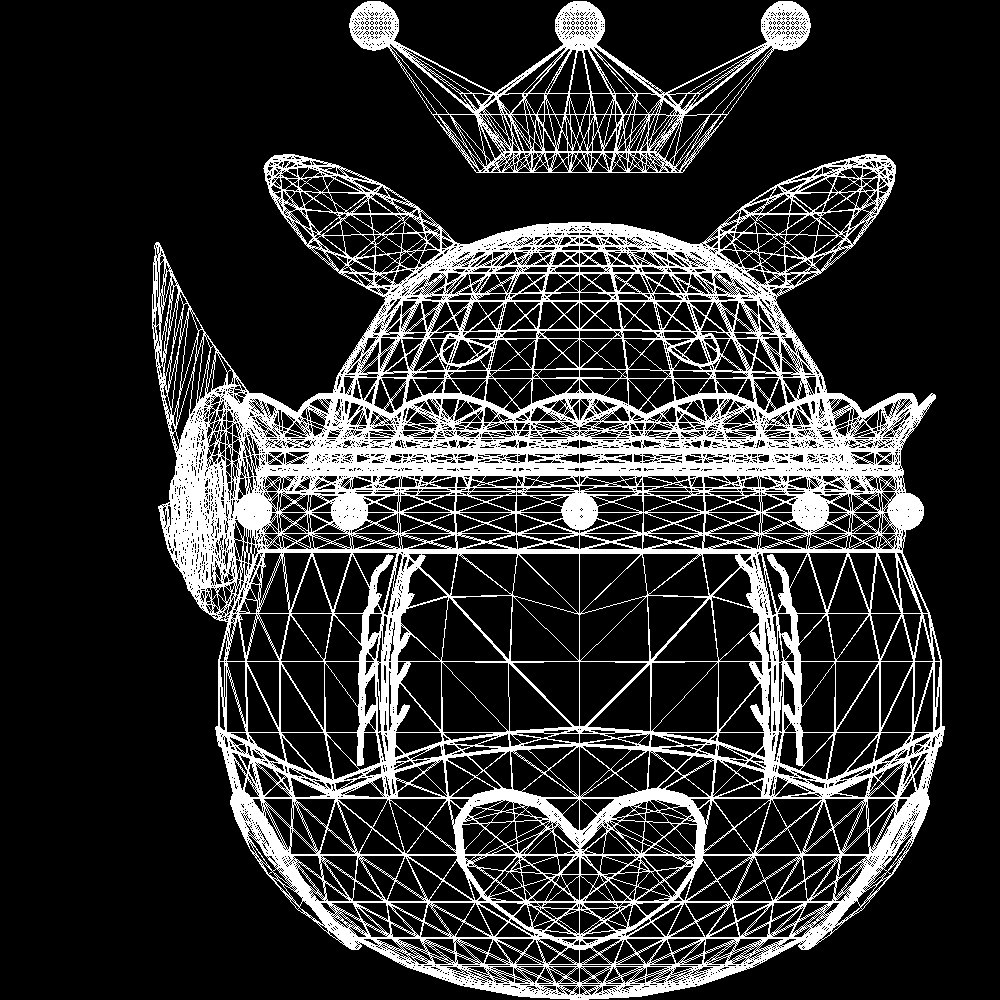
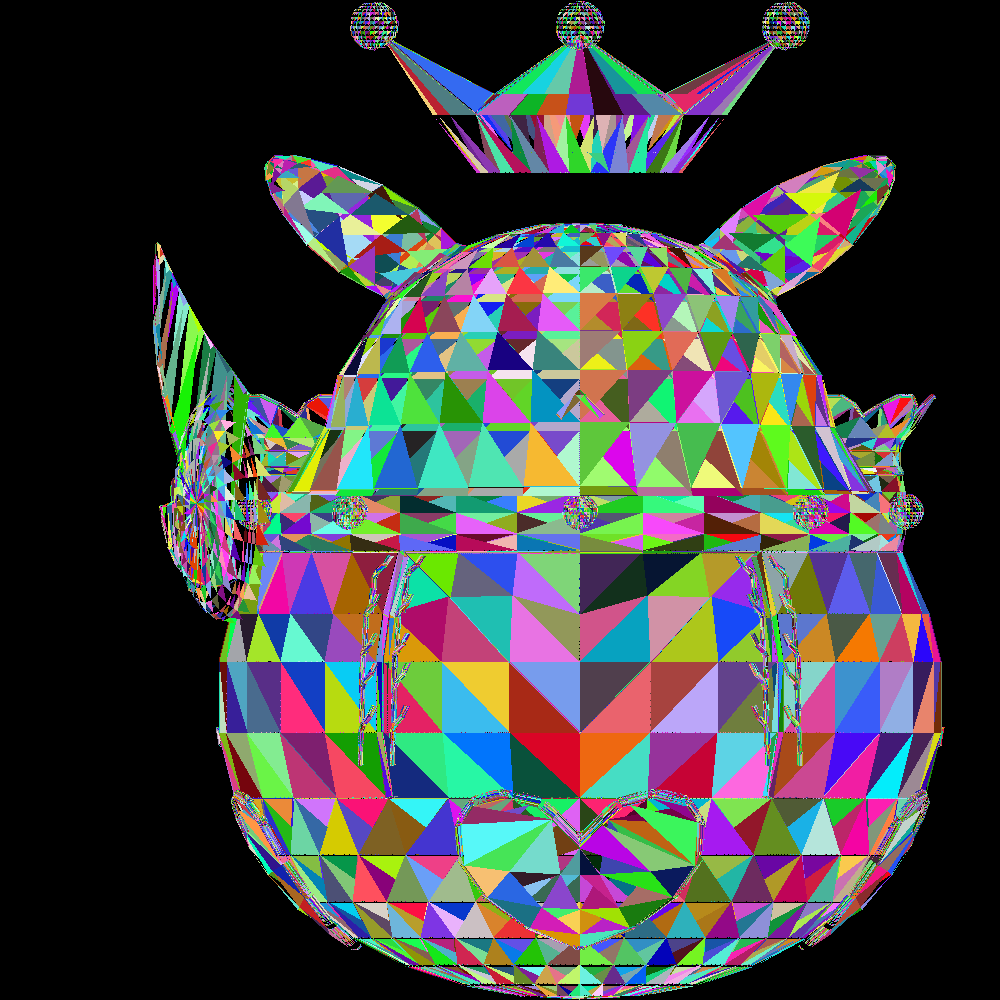
Good polygons

diff --git a/lab1.py b/lab1.py
@@ -41,7 +41,7 @@ def x_loop_line(image, x0, y0, x1, y1, color):
             image[y, x] = color
 
 
-def brezn_line(image, x0, y0, x1, y1,color):
+def brezn_line(image, x0, y0, x1, y1, color):
     xchange = False
     if (abs(x0 - x1) < abs(y0 - y1)):
         x0, y0 = y0, x0
@@ -79,7 +79,7 @@ def brezn_line(image, x0, y0, x1, y1,color):
 
 
 
-name = './/models//model_2.obj' #Название модели
+name = './/models//model_1.obj' #Название модели
 vertices = []
 wares = []
 f = open(name)
@@ -102,51 +102,75 @@ while line :
 
 f.close()
 
+width = 1000
+height = 1000
+
 image_matrix = np.zeros((1000, 1000, 3), dtype = np.uint8)
 image_matrix_wareframe = np.zeros((1000, 1000, 3), dtype = np.uint8)
 
-x_offset = 200 # Отступы, поменять если выдаёт ошибку
-y_offset = -200
+
+
+x_offset = 0.005 # Отступы, поменять если выдаёт ошибку
+y_offset = 0.005
+z_offset = 0
+alpha = 0
+betta = 2
+gamma = 0
 x_scale = 1000 # Масштаб, поменять если модель не видно
 y_scale = 1000
 
 def mapNorm(OldValue,OldMin,OldMax,NewMin,NewMax):
     OldRange = (OldMax - OldMin)
     NewRange = (NewMax - NewMin)
-    return int((((OldValue - OldMin) * NewRange) / OldRange) + NewMin)
+    return (((OldValue - OldMin) * NewRange) / OldRange) + NewMin
 
-OldMax = max(map(max,vertices))
-OldMin = min(map(min,vertices))
+OldMax = max(map(max,vertices)) + max(x_offset, y_offset)
+OldMin = min(map(min,vertices)) + max(x_offset, y_offset)
 
 
 
 
 
 for i in range(0,len(wares)):
-    x0 = int(vertices[wares[i][0]-1][0]*x_scale)
-    y0 = int(vertices[wares[i][0]-1][1]*y_scale)
-    x1 = int(vertices[wares[i][1]-1][0]*x_scale)
-    y1 = int(vertices[wares[i][1]-1][1]*y_scale)
-    x0 = mapNorm(x0, OldMin * x_scale, OldMax * x_scale, 0, 999) + x_offset
-    y0 = mapNorm(y0, OldMin * y_scale, OldMax * y_scale, 0, 999) + y_offset
-    x1 = mapNorm(x1, OldMin * x_scale, OldMax * x_scale, 0, 999) + x_offset
-    y1 = mapNorm(y1, OldMin * y_scale, OldMax * y_scale, 0, 999) + y_offset
+    x0 = int((vertices[wares[i][0]-1][0] + x_offset) * x_scale)
+    y0 = int((vertices[wares[i][0]-1][1] + y_offset) * y_scale)
+    x1 = int((vertices[wares[i][1]-1][0] + x_offset) * x_scale)
+    y1 = int((vertices[wares[i][1]-1][1] + y_offset) * y_scale)
+    x0 = int(mapNorm(x0, OldMin * x_scale, OldMax * x_scale, 0, 999))
+    y0 = int(mapNorm(y0, OldMin * y_scale, OldMax * y_scale, 0, 999))
+    x1 = int(mapNorm(x1, OldMin * x_scale, OldMax * x_scale, 0, 999))
+    y1 = int(mapNorm(y1, OldMin * y_scale, OldMax * y_scale, 0, 999))
 
     brezn_line(image_matrix_wareframe, x0, y0, x1, y1,255)
 
 img = Image.fromarray(np.flip(image_matrix_wareframe), mode = 'RGB')
 img.save(name + 'wareframe'+'.png')
 
+
 def BarCoord(x, y, x0, y0, x1, y1, x2, y2):
     denom = (x0 - x2) * (y1 - y2) - (x1 - x2) * (y0 - y2)
     if denom == 0:
-        return False
+        return -1, -1, -1
     lambda0 = ((x - x2) * (y1 - y2) - (x1 - x2) * (y - y2)) / denom
     lambda1 = ((x0 - x2) * (y - y2) - (x - x2) * (y0 - y2)) / denom
     lambda2 = 1.0 - lambda0 - lambda1
-    if (lambda0 >= 0 and lambda1 >= 0 and lambda2 >= 0):
-        return True
-    return False
+
+    return lambda0, lambda1, lambda2
+
+
+z_buffer = np.zeros((1000, 1000), dtype = np.float32)
+z_buffer[0:1000, 0:1000] = np.inf
+
+
+
+
+m1 = np.array([[1, 0, 0], [0, cos(alpha), sin(alpha)], [0, -sin(alpha), cos(alpha)]], dtype = np.float32)
+m2 = np.array([[cos(betta), 0, sin(betta)], [0, 1, 0], [-sin(betta), 0, cos(betta)]], dtype = np.float32)
+m3 = np.array([[cos(gamma), sin(gamma), 0], [-sin(gamma), cos(gamma), 0], [0, 0, 1]], dtype = np.float32)
+
+R = np.matmul(np.matmul(m1, m2), m3)
+
+
 
 
 
@@ -158,36 +182,83 @@ for i in range(0,int(len(wares)),3):
 
     x0 = vertices[wares[i][0]-1][0]
     y0 = vertices[wares[i][0]-1][1]
+    z0 = vertices[wares[i][0]-1][2]
     x1 = vertices[wares[i+1][0]-1][0]
     y1 = vertices[wares[i+1][0]-1][1]
+    z1 = vertices[wares[i+1][0]-1][2]
     x2 = vertices[wares[i+2][0]-1][0]
     y2 = vertices[wares[i+2][0]-1][1]
+    z2 = vertices[wares[i+2][0]-1][2]
 
-    x0 = mapNorm(x0, OldMin , OldMax , 0, 999)
-    y0 = mapNorm(y0, OldMin , OldMax , 0, 999)
-    x1 = mapNorm(x1, OldMin , OldMax , 0, 999)
-    y1 = mapNorm(y1, OldMin , OldMax , 0, 999)
-    x2 = mapNorm(x2, OldMin , OldMax , 0, 999)
-    y2 = mapNorm(y2, OldMin , OldMax , 0, 999)
+    xyz = np.matrix([[x0, x1, x2], [y0, y1, y2], [z0, z1 , z2 ]], dtype = np.float32)
 
-    xmin = min(x0, x1, x2)
-    if (xmin < 0): xmin = 0
-
-    ymin = min(y0, y1, y2)
-    if (ymin < 0) : ymin = 0
-
-    xmax = max(x0, x1, x2)
-    if(xmax > 999) : xmax = 999
-
-    ymax = max(y0, y1, y2)
-    if(ymax > 999) : ymax = 999
+    xyz = np.matmul(R, xyz) + np.matrix([[x_offset, x_offset, x_offset], [y_offset, y_offset, y_offset], [z_offset, z_offset, z_offset]], dtype = np.float32)
 
 
-    color = [randint(0,255), randint(0,255), randint(0,255)]
-    for j in range(xmin, xmax):
-        for k in range(ymin, ymax):
-            if BarCoord(j, k, x0, y0, x1, y1, x2, y2):
-                image_matrix[k+y_offset][j+x_offset] = color
+
+    x0 = xyz[0, 0]
+    y0 = xyz[1, 0]
+    z0 = xyz[2, 0]
+    x1 = xyz[0, 1]
+    y1 = xyz[1, 1]
+    z1 = xyz[2, 1]
+    x2 = xyz[0, 2]
+    y2 = xyz[1, 2]
+    z2 = xyz[2, 2]
+
+
+
+
+    v1 = np.array([x1 - x2, y1 - y2, z1 - z2])
+    v2 = np.array([x1 - x0, y1 - y0, z1 - z0])
+
+    norm = np.cross(v1, v2)
+
+    l = np.array([0, 0, 1])
+
+    angle_between = ((norm[0] * l[0]) + (norm[1] * l[1]) + (norm[2] * l[2])/(sqrt(norm[0] * norm[0] + norm[1] * norm[1] + norm[2] * norm[2]) * sqrt(l[0] * l[0] + l[1] * l[1] + l[2] * l[2])))
+
+    if angle_between < 0:
+
+
+        x0 = x_scale * x0 / z0 + x_offset
+        y0 = y_scale * y0 / z0 + y_offset
+        x1 = x_scale * x1 / z1 + x_offset
+        y1 = y_scale * y1 / z1 + y_offset
+        x2 = x_scale * x2 / z2 + x_offset
+        y2 = y_scale * y2 / z2 + y_offset
+
+        #x0 = mapNorm(x0, OldMin, OldMax, 0, 999)
+        #y0 = mapNorm(y0, OldMin, OldMax, 0, 999)
+        #x1 = mapNorm(x1, OldMin, OldMax, 0, 999)
+        #y1 = mapNorm(y1, OldMin, OldMax, 0, 999)
+        #x2 = mapNorm(x2, OldMin, OldMax, 0, 999)
+        #y2 = mapNorm(y2, OldMin, OldMax, 0, 999)
+
+        xmin = floor(min(x0, x1, x2))
+        if (xmin < 0): xmin = 0
+
+        ymin = floor(min(y0, y1, y2))
+        if (ymin < 0) : ymin = 0
+
+        xmax = ceil(max(x0, x1, x2))
+        if(xmax > 999) : xmax = 999
+
+        ymax = ceil(max(y0, y1, y2))
+        if(ymax > 999) : ymax = 999
+
+
+
+
+        color = [-255 * angle_between, 0, 0]
+        for j in range(xmin, xmax):
+            for k in range(ymin, ymax):
+                l0, l1, l2 = BarCoord(j, k, x0, y0, x1, y1, x2, y2)
+                if (l0 >= 0 and l1 >= 0 and l2 >= 0):
+                    z_val = l0 * z0 + l1 * z1 + l2 * z2
+                    if(z_val < z_buffer[k][j]):
+                        image_matrix[k][j] = color
+                        z_buffer[k][j] = z_val
 
 
 
